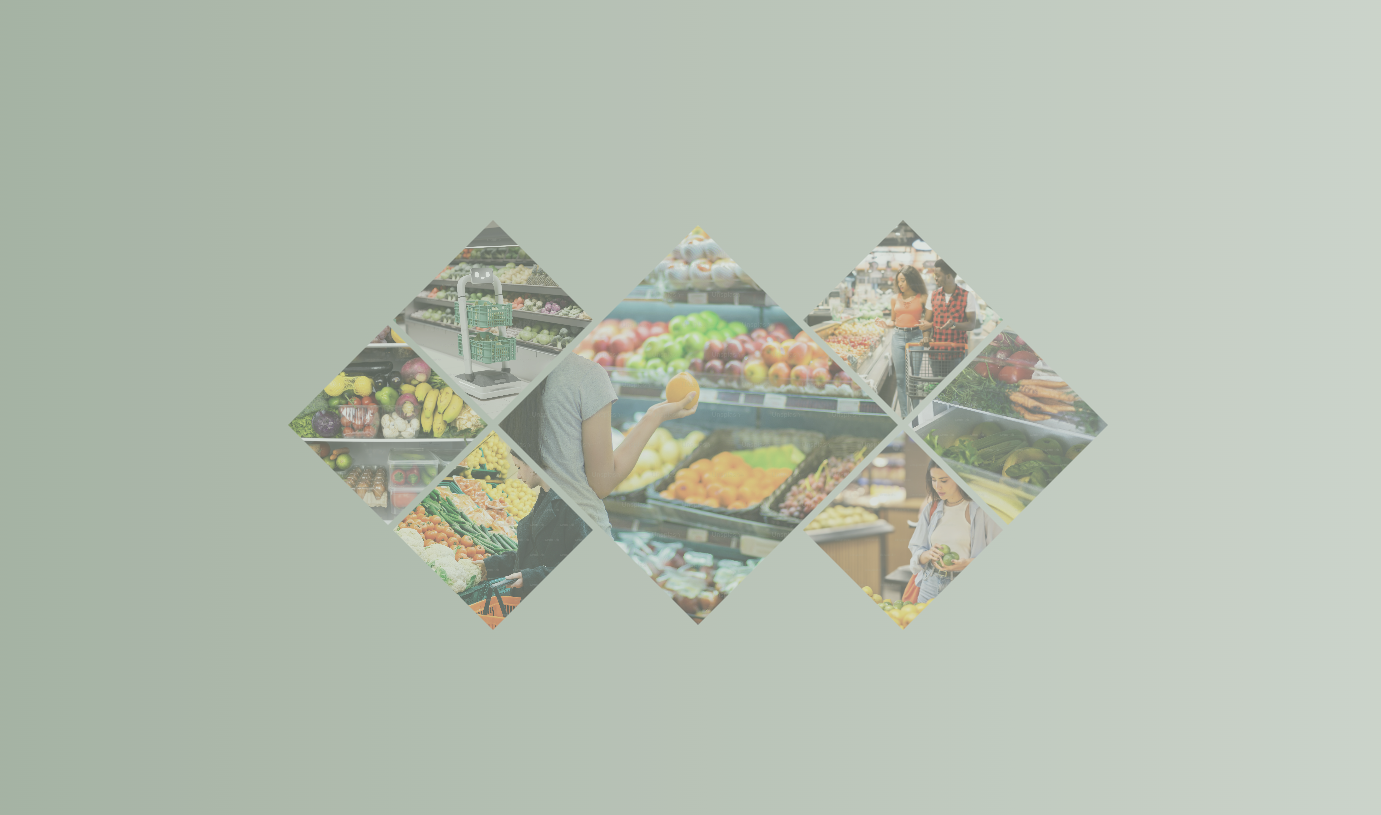
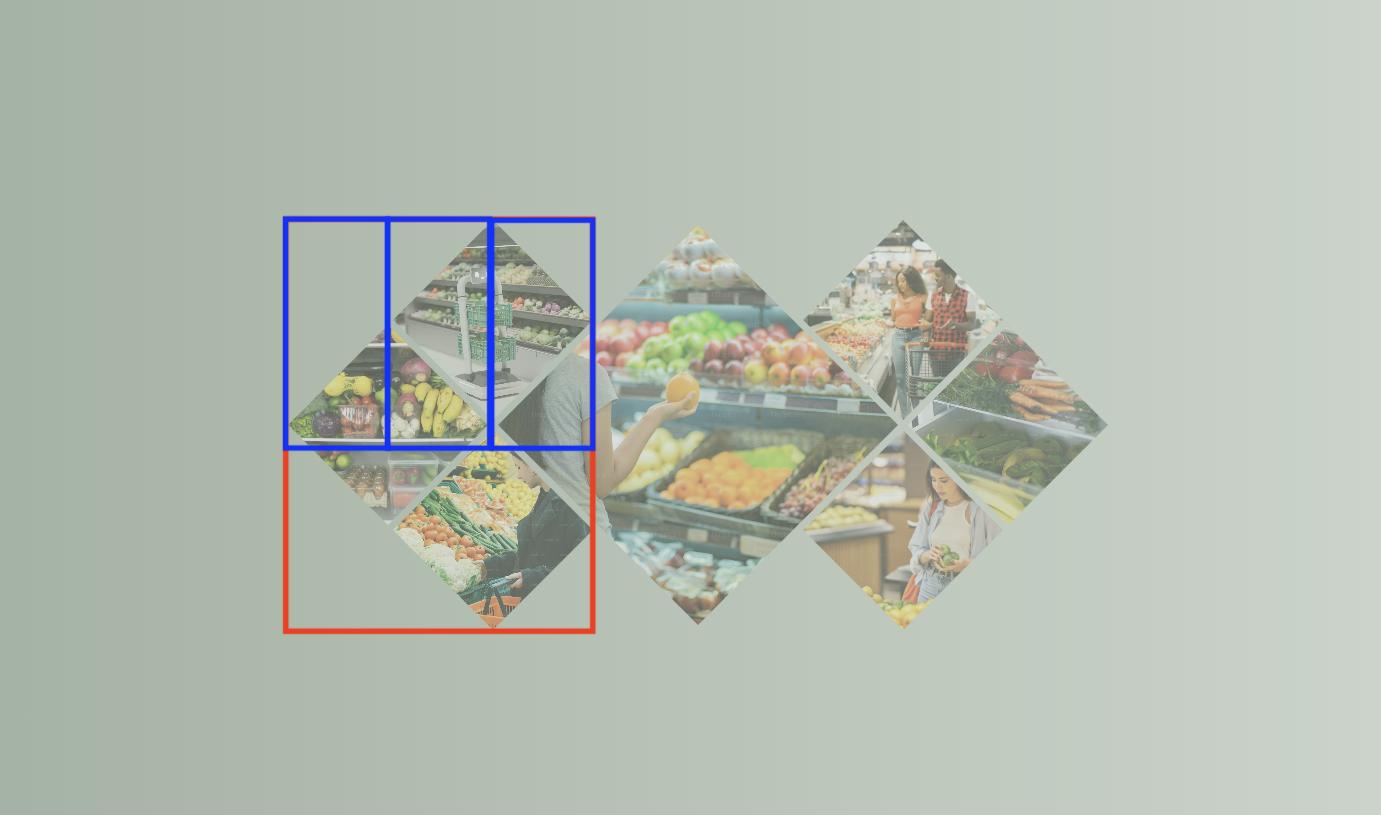
alternate better grid version

Changed region(s): [[0.1868, 0.2454, 0.4359, 0.7975]]

diff --git a/clip-path/style.css b/clip-path/style.css
@@ -1,5 +1,5 @@
 .container {
-    height: 100vh;
+    height: 800px;
     display: flex;
     justify-content: center;
     align-items: center;
@@ -18,6 +18,7 @@ img {
     position: relative;
     transition: all 0.3s ease;
     transform-origin: center;
+    z-index: 1;
 }
 
 .container > div:hover {
@@ -26,7 +27,7 @@ img {
 
 .container img:hover {
     opacity: 1;
-    scale: 1.5;
+    scale: 1.2;
     z-index: 10;
 }
 
@@ -61,4 +62,57 @@ img {
 }
 .container > div:first-child > img:last-child {
     transform: translate(110px, 5px);
+}
+
+.gallery {
+    height: 800px;
+    display: flex;
+    justify-content: center;
+    align-items: center;
+    gap: 10px;
+    background: linear-gradient(to right, #9bad9b, #d1dad1);
+}
+
+.gallery > div {
+    transform: translate(215px, 0);
+}
+.gallery > div:last-child {
+    transform: translate(-215px, 0);
+}
+
+.gallery > div:hover {
+    z-index: 9;
+}
+
+.gallery > div img {
+    width: 200px;
+    height: 200px;
+    grid-column: 2 / span 2;
+    grid-row: 1 / span 2;
+    margin: 5px;
+}
+
+.gallery img:hover {
+    opacity: 1;
+    scale: 1.2;
+    z-index: 10;
+}
+
+.gallery > div img:nth-child(2) {
+    grid-column: 1 / span 2;
+    grid-row: 2 / span 2;
+}
+.gallery > div:last-child img:nth-child(2) {
+    grid-column: 3 / span 2;
+    grid-row: 2 / span 2;
+}
+.gallery > div img:nth-child(3) {
+    grid-column: 2 / span 2;
+    grid-row: 3 / span 2;
+}
+
+.gallery > div {
+    display: grid;
+    grid-template-columns: repeat(4, 1fr);
+    grid-template-rows: repeat(4, 1fr);
 }

diff --git a/clip-path/index.html b/clip-path/index.html
@@ -22,6 +22,20 @@
             <img src="https://plus.unsplash.com/premium_photo-1742244062738-b89842049185" alt="Veggies">
         </div>
     </div>
+
+     <div class="gallery">
+        <div>
+            <img src="https://plus.unsplash.com/premium_photo-1757250646575-38d4b8b031c6" alt="Veggies">
+            <img src="https://plus.unsplash.com/premium_photo-1736295088142-4f30279d5ac4" alt="Veggies">
+            <img src="https://plus.unsplash.com/premium_photo-1741466800992-d6c2d2f76d2a" alt="Veggies">
+        </div>
+        <img src="https://plus.unsplash.com/premium_photo-1670002418788-49460cff46d0" alt="Veggies">
+        <div>
+            <img src="https://plus.unsplash.com/premium_photo-1661380288410-d04d29965f0d" alt="Veggies">
+            <img src="https://plus.unsplash.com/premium_photo-1661377064164-d1d54197d605" alt="Veggies">
+            <img src="https://plus.unsplash.com/premium_photo-1742244062738-b89842049185" alt="Veggies">
+        </div>
+    </div>
 </body>
 
 </html>
